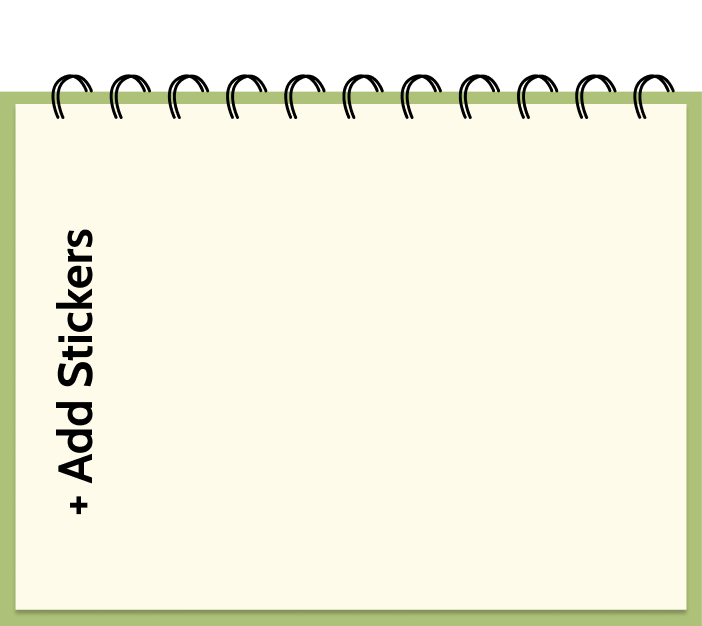
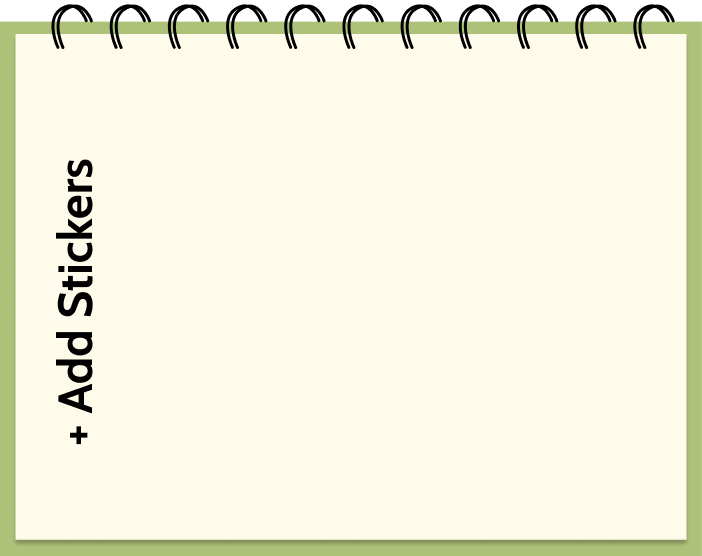
added font and small fixes

Changed region(s): [[0.0, 0.0, 1.0, 0.1835], [0.0598, 0.2752, 0.1496, 0.8255], [0.0299, 0.9478, 0.9872, 0.9784]]

diff --git a/decobook/public/index.html b/decobook/public/index.html
@@ -2,14 +2,15 @@
 <html lang="en">
   <head>
     <meta charset="utf-8" />
-    <link rel="icon" href="%PUBLIC_URL%/favicon.ico" />
+    <link rel="icon" href="%PUBLIC_URL%/notebook.svg" />
     <meta name="viewport" content="width=device-width, initial-scale=1" />
+    <link href="https://fonts.googleapis.com/css2?family=Cabin:ital,wght@0,400..700;1,400..700&display=swap" rel="stylesheet">
     <meta name="theme-color" content="#000000" />
     <meta
       name="description"
       content="Web site created using create-react-app"
     />
-    <link rel="apple-touch-icon" href="%PUBLIC_URL%/logo192.png" />
+    <link rel="apple-touch-icon" href="%PUBLIC_URL%/notebook.svg" />
     <!--
       manifest.json provides metadata used when your web app is installed on a
       user's mobile device or desktop. See https://developers.google.com/web/fundamentals/web-app-manifest/
@@ -24,7 +25,7 @@
       work correctly both with client-side routing and a non-root public URL.
       Learn how to configure a non-root public URL by running `npm run build`.
     -->
-    <title>React App</title>
+    <title>Decobook</title>
   </head>
   <body>
     <noscript>You need to enable JavaScript to run this app.</noscript>

diff --git a/decobook/src/components/components.css b/decobook/src/components/components.css
@@ -1,3 +1,19 @@
+body {
+    font-family: 'Cabin', sans-serif;
+  }
+  
+  h1, h2, h3 {
+    font-family: 'Cabin', sans-serif;
+    font-weight: 700;
+  }
+
+  
+  p {
+    font-family: 'Cabin', sans-serif;
+    font-weight: 400;
+  }
+
+
 .sidebar {
     height: 100vh;
     width: 7%;
@@ -81,9 +97,10 @@
 }
 
 .shelf_object {
-    padding: 0px 10% 0px 0px;
+    /* padding: 0px 0px 0px 10%; */
     min-width: 220px;
     justify-content: center;
+    align-items: center;
 
     .object_name {
         position: relative;
@@ -91,10 +108,11 @@
         width: 50%;
         margin: auto;
         font-size: 24px;
-        padding-left: 20%;
+        text-align: center;
     }
     img {
         padding-left: 20%;
+        align-items: center;
     }
 }
 
@@ -125,7 +143,7 @@
 
 .addSticker {
     position: absolute;
-    top: 5%;
+    top: 15%;
     left: 90%;
     height: 90%;
     width: 10%;
@@ -267,6 +285,7 @@
             font-size: 20px;
             border: none;
             cursor: pointer;
+            font-family: 'Cabin', sans-serif;
         }
     }
 }

diff --git a/decobook/src/components/journal.js b/decobook/src/components/journal.js
@@ -1,6 +1,7 @@
 import React from 'react';
 import HTMLFlipBook from 'react-pageflip';
 import './journal.css';
+import sticker_group from '../assets/images/sticker_group.png';
 
 const Journal = ({ pages, backgroundImage }) => {
     return (
@@ -10,6 +11,7 @@ const Journal = ({ pages, backgroundImage }) => {
                     <div key={index} className="page" style={{ backgroundImage: `url(${backgroundImage})`, backgroundSize: 'cover' }}>
                         <div className="page-content">
                             <h2 className="page_title">New_Page{index + 1}</h2>
+                            <img src={sticker_group} className="sticker_group"></img>
                         </div>
                     </div>
                 ))}

diff --git a/decobook/src/components/Layout.js b/decobook/src/components/Layout.js
@@ -17,7 +17,7 @@ function Layout() {
 
   return (
     <div className="Layout">
-        { type == "journal" ? <div><TopNav title={"Viewing Book 1"}/><PageView /></div> : null }
+        { type == "journal" ? <div><TopNav title={"Viewing Journal"}/><PageView /></div> : null }
         { type == "bottle" ? <div><TopNav title={"Viewing Bottle"}/><Bottle /></div> : null }
         { type == "polaroid" ? <div><TopNav title={"Viewing Polaroid"}/><Polaroid /></div> : null }
         <div className="addSticker" onClick={handleOpen}>

diff --git a/decobook/src/components/Bookshelf.js b/decobook/src/components/Bookshelf.js
@@ -6,7 +6,7 @@ import book1 from "../assets/images/book1.png";
 import book2 from "../assets/images/book2.png";
 import book3 from "../assets/images/book3.png";
 import polaroid from "../assets/images/polaroid.png";
-import bottle from "../assets/images/bottle.svg";
+import bottle from "../assets/images/bottle.png";
 import blank from "../assets/images/blank_object.png";
 
 

diff --git a/decobook/src/components/journal.css b/decobook/src/components/journal.css
@@ -30,3 +30,7 @@
     border-bottom: 2px solid gray;
     margin: 20px 20px 10px 20px;
 }
+
+.sticker_group {
+    margin-top: 20px;
+}
